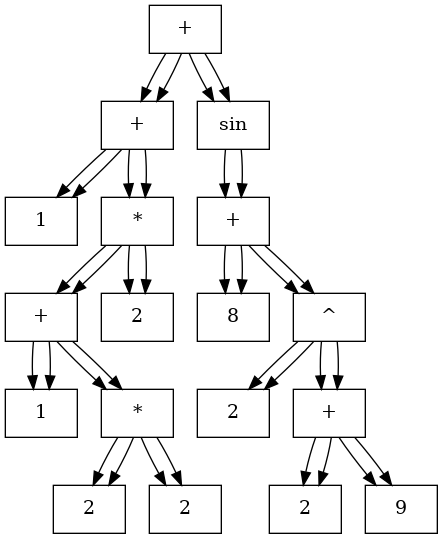
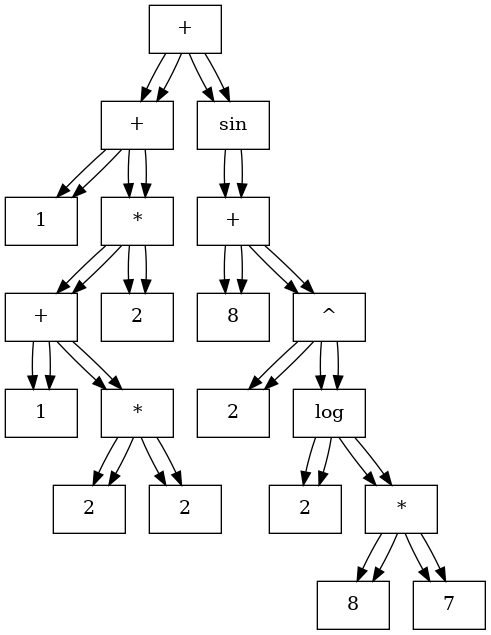
оно работает, но это пиздец

Changed region(s): [[0.0, 0.0, 0.9977, 1.0]]

diff --git a/read.cpp b/read.cpp
@@ -1,6 +1,7 @@
 #include "read.h"
 
-const char *s = "1+(1+2*2)*2+sin(8+2^(2+9))$";
+const char *s = "1+(1+2*2)*2+sin(8+2^(log2(8*7)))$";
+//const char *s = "log2(8*9)$";
 int p = 0;
 
 int main ()
@@ -51,6 +52,7 @@ Node *GetN ()
     if (pOld == p)
         SyntaxError ();
 
+    //printf ("%d\n", val);
     return _NUM(val);
 }
 
@@ -98,7 +100,8 @@ Node *GetKitkat ()
         strncmp (s + p, "sh", _sh) == 0 ||
         strncmp (s + p, "ch", _ch) == 0 ||
         strncmp (s + p, "th", _th) == 0 ||
-        strncmp (s + p, "cth", _cth) == 0 )
+        strncmp (s + p, "cth", _cth) == 0 ||
+        strncmp (s + p, "log", _log) == 0)
         {
 
             if (strncmp (s + p, "sin", _sin) == 0)
@@ -150,6 +153,28 @@ Node *GetKitkat ()
                 p += _cth;
                 Node *val = GetS();
                 return _CTH (val);
+            } else if (strncmp (s + p, "log", _log) == 0)
+            {
+                p += _log;
+                Node *val = GetN ();
+                //printf ("oo\n");
+                if (s[p] == '(')
+                {
+                    //printf ("oo\n");
+                    p++;
+                    Node *val2 = GetE ();
+                    //printf ("%d\n", val2->value);
+                    if (s[p] == ')')
+                    {
+                        p++;
+                        //printf ("pp %d\n", p);
+                        return _LOG(val,val2);
+                    }
+                    SyntaxError ();
+                } else
+                {
+                    SyntaxError ();
+                }
             }
             
             return NULL;
@@ -189,12 +214,14 @@ Node *GetL ()
     {
         p += _log;
         Node *val = GetN ();
+        printf ("oo\n");
         if (s[p] == '(')
-        {
+        {printf ("oo\n");
             Node *val2 = GetPenis ();
             if (s[p] == ')')
             {
                 p++;
+                printf ("oo\n");
                 return _LOG(val,val2);
             }
             SyntaxError ();
@@ -212,7 +239,7 @@ Node *GetL ()
 
 Node *SyntaxError ()
 {
-    printf ("%c\n", s[p]);
+    printf ("%c %d\n", s[p], p);
     printf ("%c\n", s[p+1]);
     printf ("Syntax error\n");
 
